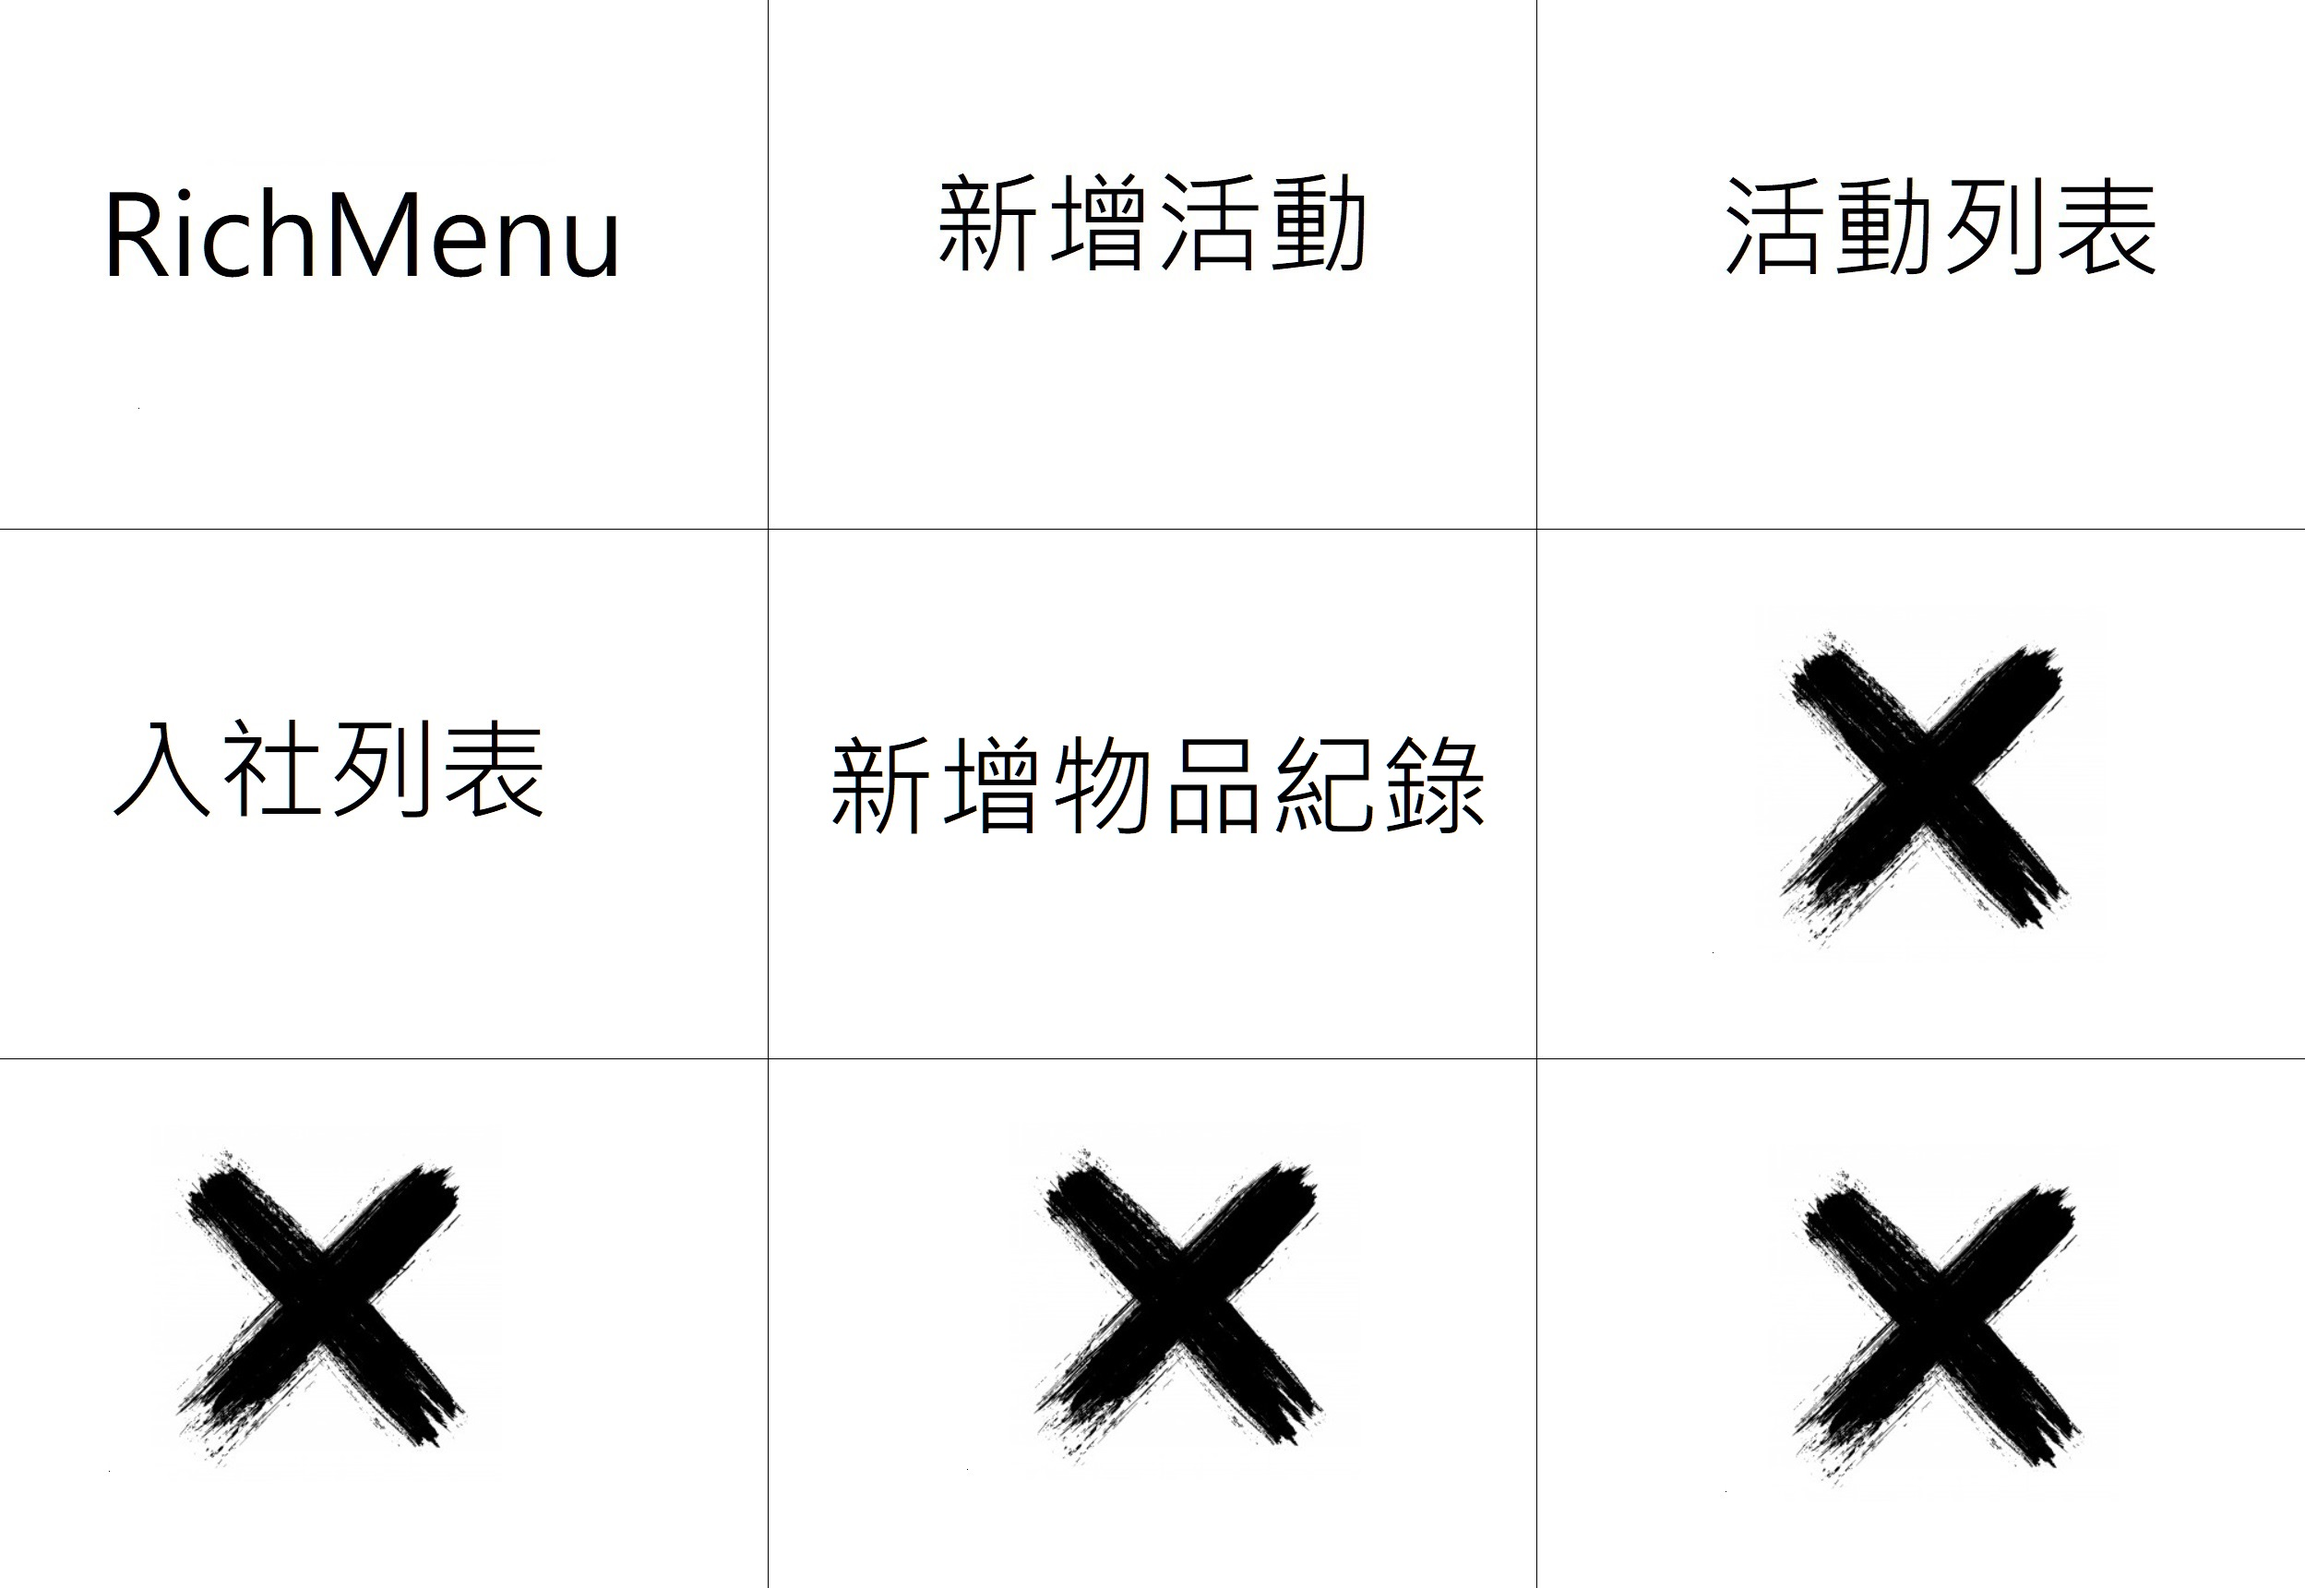
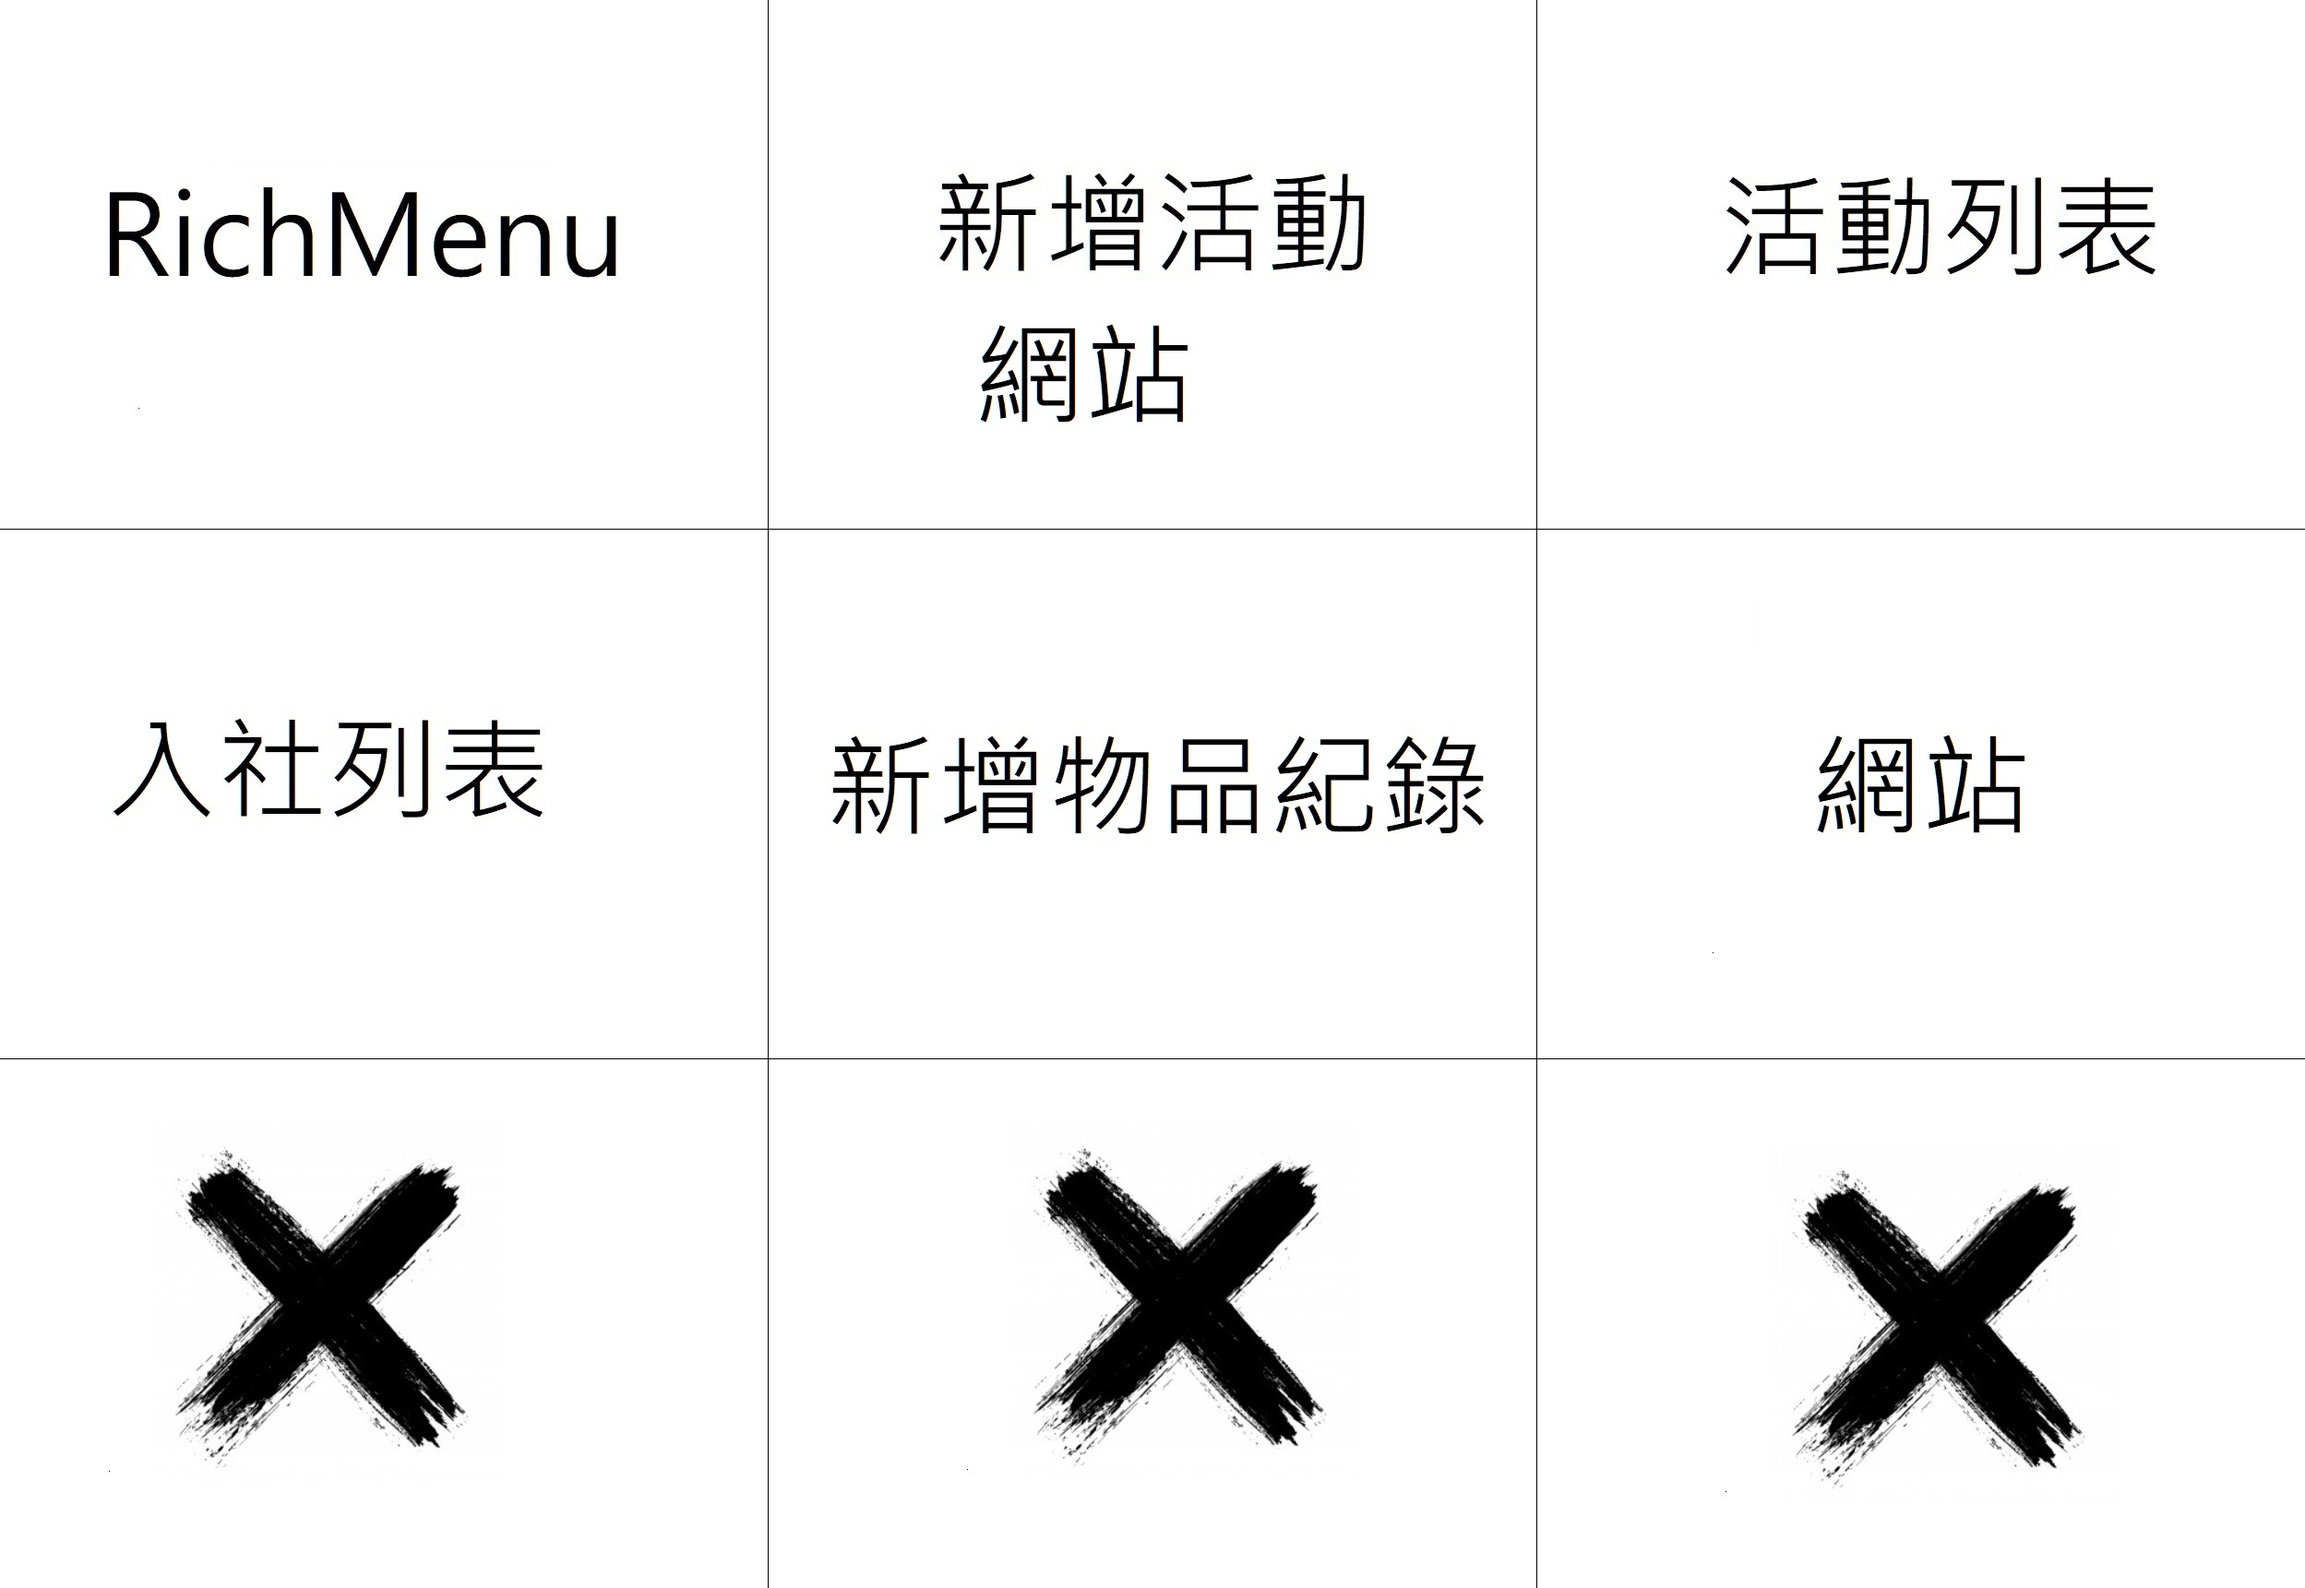
[新增] admin richmenu 網站連結

Changed region(s): [[0.7806, 0.4003, 0.9055, 0.5851], [0.4059, 0.1848, 0.5308, 0.2772]]

diff --git a/bootstrap/config.go b/bootstrap/config.go
@@ -10,7 +10,8 @@ import (
 type Config struct {
 	Server       Server       `yaml:"server"`
 	LineBot      LineBot      `yaml:"line_bot"`
-	TelegramBot  LineBot      `yaml:"telegram_bot"`
+	TelegramBot  MessageBot   `yaml:"telegram_bot"`
+	Badminton    Badminton    `yaml:"badminton"`
 	GoogleScript GoogleScript `yaml:"google_script"`
 	Backgrounds  Backgrounds  `yaml:"backgrounds"`
 	DbConfig     DbConfig     `yaml:"db"`
@@ -32,10 +33,18 @@ func (c *Server) Addr() string {
 }
 
 type LineBot struct {
-	AdminID            string `yaml:"admin_id"`
+	MessageBot         `yaml:"message_bot"`
 	RoomID             string `yaml:"room_id"`
-	ChannelAccessToken string `yaml:"channel_access_token"`
 	LineLoginChannelID uint64 `yaml:"line_login_channel_id"`
+}
+
+type MessageBot struct {
+	AdminID            string `yaml:"admin_id"`
+	ChannelAccessToken string `yaml:"channel_access_token"`
+}
+
+type Badminton struct {
+	LiffUrl string `yaml:"liff_url"`
 }
 
 type GoogleScript struct {

diff --git a/logic/club/common.go b/logic/club/common.go
@@ -3,6 +3,7 @@ package club
 import (
 	"embed"
 	"fmt"
+	"heroku-line-bot/bootstrap"
 	"heroku-line-bot/logic/club/domain"
 	clublinebotDomain "heroku-line-bot/logic/clublinebot/domain"
 	commonLogic "heroku-line-bot/logic/common"
@@ -21,9 +22,11 @@ var (
 	adminRichMenuImg,
 	cadreRichMenuImg,
 	guestRichMenuImg []byte
+
+	liffUrl string
 )
 
-func Init(resourceFS embed.FS) errLogic.IError {
+func Init(cfg *bootstrap.Config, resourceFS embed.FS) errLogic.IError {
 	if bs, err := readImg(resourceFS, "adminRichMenu.png"); err != nil {
 		return errLogic.NewError(err)
 	} else {
@@ -39,6 +42,8 @@ func Init(resourceFS embed.FS) errLogic.IError {
 	} else {
 		guestRichMenuImg = bs
 	}
+
+	liffUrl = cfg.Badminton.LiffUrl
 	return nil
 }
 

diff --git a/logic/club/richMenu.go b/logic/club/richMenu.go
@@ -318,6 +318,7 @@ func (b *richMenu) createRoleRichMenu(role domain.ClubRole) *linebotReqs.CreateR
 			linebot.GetMessageAction(string(domain.GET_ACTIVITIES_TEXT_CMD)),
 			linebot.GetMessageAction(string(domain.GET_CONFIRM_REGISTER_TEXT_CMD)),
 			linebot.GetMessageAction(string(domain.NEW_LOGISTIC_TEXT_CMD)),
+			linebot.GetUriAction(liffUrl),
 		)
 	default:
 		return nil

diff --git a/service/linebot/template.go b/service/linebot/template.go
@@ -80,6 +80,13 @@ func GetMessageAction(text string) *model.MessageAction {
 	}
 }
 
+func GetUriAction(uri string) *model.UriAction {
+	return &model.UriAction{
+		Type: "uri",
+		Uri:  uri,
+	}
+}
+
 func GetTimeAction(text, data, max, min string, mode domain.TimeActionMode) *model.TimeAction {
 	return &model.TimeAction{
 		PostBackAction: &model.PostBackAction{

diff --git a/service/linebot/domain/model/text.go b/service/linebot/domain/model/text.go
@@ -97,6 +97,11 @@ type MessageAction struct {
 	Text  string `json:"text,omitempty"`
 }
 
+type UriAction struct {
+	Type string `json:"type"`
+	Uri  string `json:"uri,omitempty"`
+}
+
 type TimeAction struct {
 	*PostBackAction
 	Mode domain.TimeActionMode `json:"mode,omitempty"`

diff --git a/logic/common.go b/logic/common.go
@@ -14,7 +14,7 @@ func Init(resourceFS embed.FS, cfg *bootstrap.Config) errLogic.IError {
 		return errInfo
 	}
 
-	if errInfo := club.Init(resourceFS); errInfo != nil {
+	if errInfo := club.Init(cfg, resourceFS); errInfo != nil {
 		return errInfo
 	}
 
